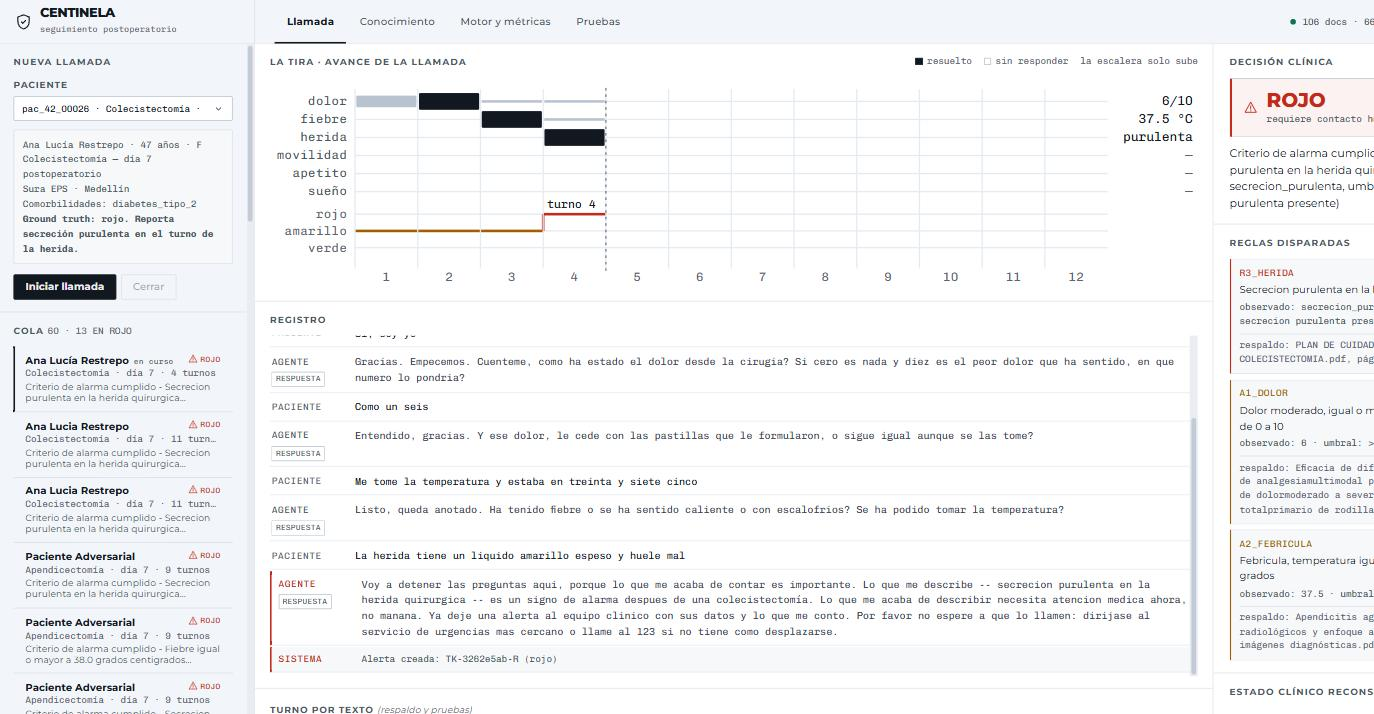
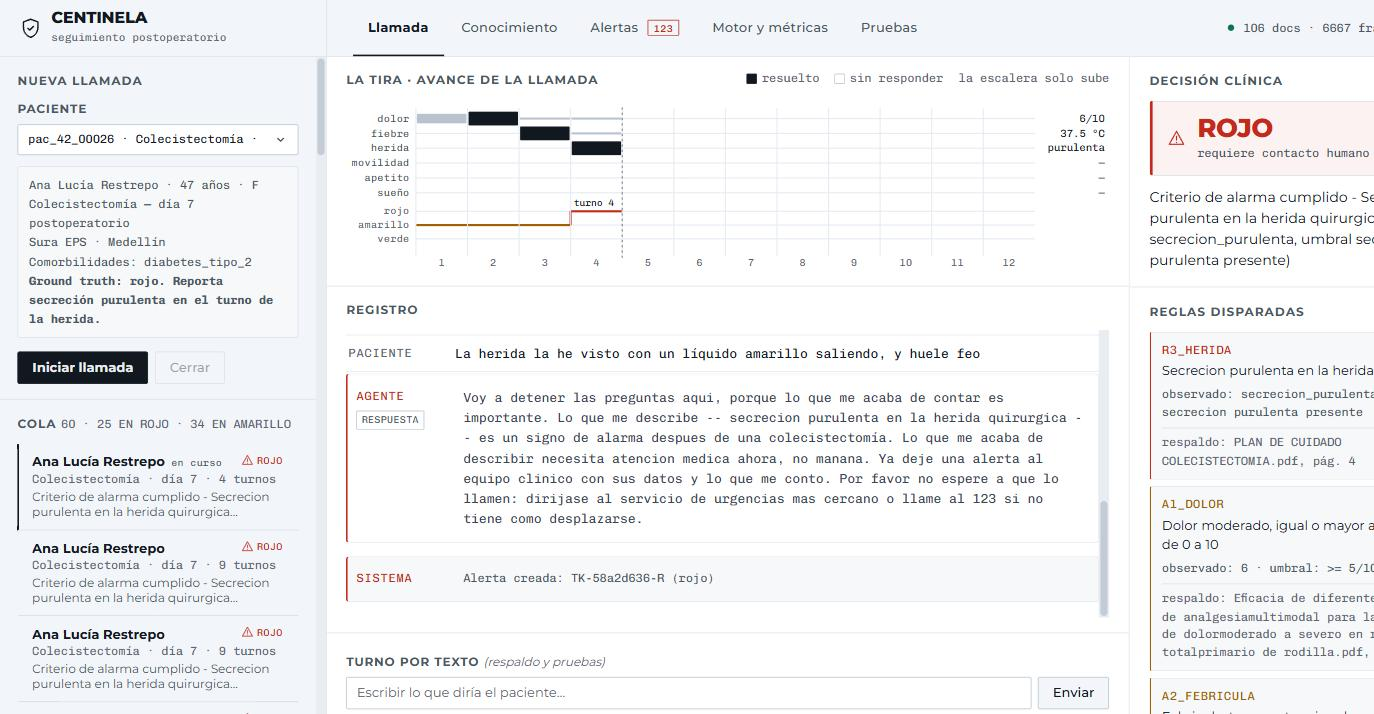
El cache que servia codigo viejo, el tope de la columna, y las siete suites en el panel
EL CACHE DE ESTATICOS SERVIA CODIGO VIEJO

Encontrado por accidente y con consecuencia directa en produccion. Se anadio un tope a
una lista de la consola, se recargo la pagina, y el tope no aparecia. El servidor SI
servia el JS nuevo -- comprobado pidiendolo con `?v=` -- y la pagina seguia corriendo el
viejo.

Causa: `StaticFiles` no manda `Cache-Control`. Sin ella el navegador aplica su heuristica
y se queda con la copia guardada, incluso al recargar. Efecto en un despliegue clinico:
se corrige un fallo de la consola, se despliega, y el puesto de enfermeria sigue
ejecutando el codigo anterior sin que nadie se entere.

`no-cache` no significa "no guardes", significa "guarda, pero revalida siempre". Con el
etag que StaticFiles ya manda, la segunda peticion es un 304 vacio -- comprobado -- asi
que no cuesta ancho de banda y garantiza que lo que corre es lo desplegado. HTML, JS y
CSS con `no-cache`; tipografias y audio con `max-age` de una semana, que son inmutables
en la practica y lo unico pesado que sirve la consola. El index tambien, porque es el que
trae las etiquetas <script>: si se sirve viejo, no llega ni a pedir el JS nuevo.

LA COLUMNA DE LA LLAMADA TENIA UN AGUJERO DE PRESENTACION

El bloque de alertas previas sin acuse no tenia tope. Con las alertas acumuladas de las
pruebas de hoy, un paciente mostraba 45 lineas identicas y empujaba fuera de pantalla el
estado clinico y las citas -- justo lo que el operador necesita para la llamada que tiene
[…]

diff --git a/web/panel.js b/web/panel.js
@@ -72,6 +72,11 @@
    * lo que no tiene decision no puede ser lo mas urgente de la lista. */
   const ORDEN_COLA = { rojo: 1, amarillo: 2, verde: 3, abierta: 4, incompleta: 5, "—": 6 };
 
+  /* Cuantas alertas previas sin acuse se listan en la columna de la llamada. Las que
+   * pasan de ahi se resumen en una linea: la columna tiene que seguir mostrando el
+   * estado clinico de la llamada en curso, que es para lo que sirve. */
+  const MAX_ALERTAS_PREVIAS = 3;
+
   /* Etiquetas cortas para el margen de la tira.
    *
    * Los dominios cualitativos son enumeraciones cerradas (models.py), asi que se
@@ -815,15 +820,26 @@
 
     // Una alerta anterior sin acuse es lo mas urgente que puede aparecer aca: el
     // sistema ya aviso de este paciente y nadie lo atendio.
+    //
+    // Con tope, y no por estetica. Sin el, un paciente con muchas alertas sin atender
+    // llenaba la columna entera y empujaba fuera de pantalla el estado clinico y las
+    // citas -- justo la informacion que el operador necesita para la llamada que tiene
+    // delante. Lo que importa de veinticinco alertas iguales es que son veinticinco.
     const caja = $("#alertas-previas");
     caja.textContent = "";
-    previas.forEach((t) => {
+    previas.slice(0, MAX_ALERTAS_PREVIAS).forEach((t) => {
       const aviso = el("p", "aviso-previo");
       aviso.append(icono("nivel-rojo", "icono glifo"));
       aviso.append(el("span", null,
         `Alerta ${t.nivel} del ${(t.creado_en || "").slice(0, 10)} sin atender`));
       caja.append(aviso);
     });
+    if (previas.length > MAX_ALERTAS_PREVIAS) {
+      const resto = previas.length - MAX_ALERTAS_PREVIAS;
+      const mas = el("p", "aviso-previo",
+        `y ${resto} alerta${resto === 1 ? "" : "s"} más sin atender`);
+      caja.append(mas);
+    }
   }
 
   /* ============================== ALERTAS ==================================

diff --git a/web/app.js b/web/app.js
@@ -374,6 +374,17 @@ function procesarRespuestaTurno(r) {
   pintarEstadoClinico(r.estado_clinico);
   pintarCitas(r.citas);
   pintarLatencia(r.metricas_turno);
+  // La alerta se crea EN EL TURNO de la bandera, no al cerrar, y eso tiene que verse:
+  // es la garantía de que colgar el teléfono ya no pierde el escalamiento. El
+  // `r.cierre` de abajo llega en el mismo turno cuando el agente termina la llamada,
+  // así que se comprueba que no sea el mismo ticket para no anunciarlo dos veces.
+  if (r.alerta && r.alerta.ticket_id !== r.cierre?.ticket?.ticket_id) {
+    agregarTurno(
+      "sistema",
+      `Alerta creada en este turno: ${r.alerta.ticket_id} (${r.alerta.nivel})`,
+      "alerta",
+    );
+  }
   if (r.cierre?.ticket) {
     agregarTurno("sistema", `Alerta creada: ${r.cierre.ticket.ticket_id} (${r.cierre.ticket.nivel})`, "alerta");
   }

diff --git a/api/centinela/main.py b/api/centinela/main.py
@@ -1331,12 +1331,43 @@ async def ws_llamada(ws: WebSocket, llamada_id: str) -> None:
 # que "la estetica no puntua". Asi el arranque es un solo proceso.
 DIR_WEB = RAIZ / "web"
 
+# Politica de cache. `StaticFiles` no manda `Cache-Control`, y sin ella el navegador
+# aplica su heuristica y se queda con el fichero viejo: se corrige un fallo de la
+# consola, se despliega, y el puesto de enfermeria sigue ejecutando el codigo anterior
+# aunque recargue. Lo vimos con este mismo panel -- el servidor servia el JS nuevo y la
+# pagina seguia corriendo el viejo.
+#
+# `no-cache` no significa "no guardes": significa "guarda, pero revalida siempre". Con
+# el `etag` y el `last-modified` que StaticFiles ya manda, lo normal es un 304 vacio, asi
+# que no cuesta ancho de banda y garantiza que lo que corre es lo desplegado.
+#
+# Las tipografias y el audio de ambiente van con cache largo: son inmutables en la
+# practica y son lo unico pesado que sirve la consola.
+SIN_CACHE = frozenset({".html", ".js", ".css"})
+CACHE_LARGO = frozenset({".woff2", ".woff", ".ttf", ".wav", ".ico", ".png", ".jpg"})
+
+
+class EstaticosConCache(StaticFiles):
+    def file_response(self, full_path, stat_result, scope, status_code=200):
+        respuesta = super().file_response(full_path, stat_result, scope, status_code)
+        sufijo = Path(full_path).suffix.lower()
+        if sufijo in SIN_CACHE:
+            respuesta.headers["Cache-Control"] = "no-cache"
+        elif sufijo in CACHE_LARGO:
+            respuesta.headers["Cache-Control"] = "public, max-age=604800"
+        return respuesta
+
+
 if (DIR_WEB / "index.html").exists():
-    app.mount("/estatico", StaticFiles(directory=DIR_WEB), name="estatico")
+    app.mount("/estatico", EstaticosConCache(directory=DIR_WEB), name="estatico")
 
     @app.get("/")
     async def raiz() -> FileResponse:
-        return FileResponse(DIR_WEB / "index.html")
+        # El index tampoco se cachea sin revalidar: es el que trae las etiquetas
+        # <script>, y si el navegador lo sirve viejo no llega ni a pedir el JS nuevo.
+        return FileResponse(
+            DIR_WEB / "index.html", headers={"Cache-Control": "no-cache"}
+        )
 
     @app.get("/favicon.ico")
     async def favicon() -> Response:

diff --git a/api/centinela/pruebas.py b/api/centinela/pruebas.py
@@ -74,9 +74,33 @@ SUITES: tuple[Suite, ...] = (
         id="humo",
         titulo="Humo de extremo a extremo",
         que="Recorre la API completa: salud, corpus, llamada, turnos, cierre, "
-            "ticket y recibo de olvido.",
+            "ticket, recibo de olvido, y la llamada que cuelgan sin cerrar.",
         argumentos=["-m", "eval.humo"],
         necesita_url=True,
+    ),
+    Suite(
+        id="rag",
+        titulo="Cobertura del corpus",
+        que="60 preguntas reales de paciente cruzadas con los cinco procedimientos. "
+            "Falla si aparece una cita de otro procedimiento o una cifra que el "
+            "corpus no sostenga.",
+        argumentos=["-m", "eval.rag_cobertura"],
+        necesita_url=True,
+    ),
+    Suite(
+        id="tendencia",
+        titulo="Tendencia entre llamadas",
+        que="Barrido de umbrales de delta sobre las 40 trayectorias oficiales. "
+            "Muestra por qué el deterioro del dataset no se puede anticipar: es un "
+            "escalón, no una rampa.",
+        argumentos=["-m", "eval.tendencia"],
+    ),
+    Suite(
+        id="cifras",
+        titulo="Cifras de los documentos",
+        que="Compara los números que el README y el informe afirman contra la "
+            "medición real. Falla si alguno se quedó rancio.",
+        argumentos=["scripts/verificar_cifras.py"],
     ),
 )
 

diff --git a/tests/test_pruebas.py b/tests/test_pruebas.py
@@ -170,7 +170,9 @@ def test_el_catalogo_real_esta_completo() -> None:
     corredor = CorredorPruebas()
     catalogo = corredor.catalogo()
 
-    assert {s["id"] for s in catalogo} == {"motor", "unitarias", "adversarial", "humo"}
+    assert {s["id"] for s in catalogo} == {
+        "motor", "unitarias", "adversarial", "humo", "rag", "tendencia", "cifras",
+    }
     for entrada in catalogo:
         assert entrada["titulo"]
         assert entrada["que"], f"{entrada['id']} no explica que comprueba"

diff --git a/docs/metricas.md b/docs/metricas.md
@@ -2,7 +2,7 @@
 
 > Generado por `scripts/render_metricas.py` a partir de los informes que
 > producen los arneses de evaluación. Ninguna cifra se escribe a mano.
-> Última generación: 2026-08-08T12:17:27+00:00
+> Última generación: 2026-08-08T12:50:29+00:00
 
 ## Métricas exigidas por la rúbrica (§5)
 
@@ -96,7 +96,7 @@ Matriz de confusión (filas = etiqueta oficial, columnas = decisión del motor):
 
 ## Suite adversarial
 
-`make redteam` · 32/32 casos (100.0%) en 23.9 s.
+`make redteam` · 42/42 casos (100.0%) en 40.7 s.
 
 | Familia | Pasan |
 |---|---:|
@@ -107,6 +107,7 @@ Matriz de confusión (filas = etiqueta oficial, columnas = decisión del motor):
 | hostil | 2/2 |
 | jerga | 3/3 |
 | manipulacion | 10/10 |
+| parafraseo rojo | 10/10 |
 | pide humano | 2/2 |
 | tercero | 3/3 |
 
@@ -120,12 +121,12 @@ conversación de voz es lo que el paciente percibe como silencio.
 
 | Modelo | Tarea | TTFT p50 | TTFT máx | tok/s |
 |---|---|---:|---:|---:|
-| `phi3.5:3.8b-mini-instruct-q4_K_M` | router | **185 ms** | 198 ms | 20.6 |
-| `phi3.5:3.8b-mini-instruct-q4_K_M` | extraccion | **170 ms** | 252 ms | 66.1 |
-| `phi3.5:3.8b-mini-instruct-q4_K_M` | respuesta_clinica | **184 ms** | 291 ms | 59.9 |
-| `llama3.2:1b` | router | **879 ms** | 981 ms | 11.3 |
-| `llama3.2:1b` | extraccion | **986 ms** | 1021 ms | 46.1 |
-| `llama3.2:1b` | respuesta_clinica | **914 ms** | 1007 ms | 36.7 |
+| `phi3.5:3.8b-mini-instruct-q4_K_M` | router | **198 ms** | 269 ms | 18.1 |
+| `phi3.5:3.8b-mini-instruct-q4_K_M` | extraccion | **191 ms** | 328 ms | 45.5 |
+| `phi3.5:3.8b-mini-instruct-q4_K_M` | respuesta_clinica | **199 ms** | 424 ms | 39.4 |
+| `llama3.2:1b` | router | **974 ms** | 1032 ms | 10.3 |
+| `llama3.2:1b` | extraccion | **961 ms** | 977 ms | 47.2 |
+| `llama3.2:1b` | respuesta_clinica | **886 ms** | 944 ms | 36.4 |
 
 El modelo cuatro veces más pequeño resultó ~5× más lento en tiempo hasta el
 primer token, así que se descartó la idea de un router barato en 1B y
@@ -154,12 +155,12 @@ reto es colombiano.
 | Etapa | Medición |
 |---|---:|
 | Síntesis desde caché (turno de guion) | **0.001 ms** |
-| Síntesis en caliente (19 car) | 598 ms · RTF 0.332 |
-| Síntesis en caliente (60 car) | 904 ms · RTF 0.213 |
-| Síntesis en caliente (81 car) | 1307 ms · RTF 0.256 |
-| Respuesta larga completa | 1545 ms |
-| Primera frase (streaming) | **958 ms** |
-| Pre-renderizado del guion completo | 35 locuciones |
+| Síntesis en caliente (19 car) | 104 ms · RTF 0.058 |
+| Síntesis en caliente (60 car) | 233 ms · RTF 0.056 |
+| Síntesis en caliente (81 car) | 288 ms · RTF 0.058 |
+| Respuesta larga completa | 435 ms |
+| Primera frase (streaming) | **261 ms** |
+| Pre-renderizado del guion completo | 39 locuciones |
 
 ### Transcripción
 
@@ -167,9 +168,9 @@ reto es colombiano.
 
 | Duración del audio | Latencia | RTF |
 |---|---:|---:|
-| 2s | 16 ms | 0.008 |
-| 4s | 24 ms | 0.006 |
-| 8s | 43 ms | 0.005 |
+| 2s | 5 ms | 0.003 |
+| 4s | 8 ms | 0.002 |
+| 8s | 15 ms | 0.002 |
 
 ## Corpus indexado
 

diff --git a/docs/informe-final.md b/docs/informe-final.md
@@ -45,12 +45,12 @@ repeticiones por caso, misma máquina):
 
 | Modelo | Router (TTFT p50) | Extracción (TTFT p50) | Respuesta (TTFT p50) | tok/s | Formato JSON |
 |---|---:|---:|---:|---:|---|
-| **Phi-3.5 Mini 3.8B** | **185 ms** | **170 ms** | **185 ms** | 66 | correcto |
-| Llama 3.2 1B | 879 ms | 986 ms | 914 ms | 46 | verboso, se sale del formato |
+| **Phi-3.5 Mini 3.8B** | **198 ms** | **191 ms** | **199 ms** | 45 | correcto |
+| Llama 3.2 1B | 974 ms | 961 ms | 886 ms | 47 | verboso, se sale del formato |
 
 El resultado contradijo la hipótesis con la que empezamos. El plan inicial contemplaba
 usar Llama 3.2 1B como «router barato» para clasificar la intención de cada turno y
-reservar Phi-3.5 para lo pesado. **El modelo cuatro veces más pequeño resultó cinco veces
+reservar Phi-3.5 para lo pesado. **El modelo cuatro veces más pequeño resultó casi cinco veces
 más lento en el tiempo hasta el primer token**, que es lo único que el paciente percibe en
 una conversación. Además, en la prueba de extracción estructurada Llama 3.2 1B envolvía el
 JSON en prosa («Claro, aquí te dejo los datos…»), mientras Phi-3.5 respetaba el esquema.
@@ -388,7 +388,7 @@ identificador.
 
 ![Pestaña de pruebas con el resultado del motor de decisión](capturas/02-consola-de-pruebas.jpg)
 
-Las cuatro suites del README se ejecutan desde el navegador como subprocesos, y **el
+Las siete suites del README se ejecutan desde el navegador como subprocesos, y **el
 veredicto es el código de salida del mismo comando que documenta el README** — no hay una
 segunda implementación de estas comprobaciones dentro del panel. Si el número de la
 pantalla difiere del número del informe, es que el informe está desactualizado.
@@ -528,7 +528,7 @@ números no servían como referencia.
 |---|---:|
 | Turno resuelto por reglas (mayoría) | **< 1 ms** |
 | Turno que necesita el modelo | ~2.2 s |
-| Modelo, tiempo hasta el primer token | 185 ms |
+| Modelo, tiempo hasta el primer token | 198 ms |
 | Transcripción | 16–43 ms |
 | Audio de guion (caché) | 0.001 ms |
 | Turnos servidos desde caché de audio | **88 %** |

diff --git a/README.md b/README.md
@@ -150,15 +150,18 @@ make metricas    # las escribe en docs/metricas.md
 ### Latencia por etapa
 
 Medida con `make bench`. Desglose por etapa, porque un total sin desglose no se puede
-auditar.
+auditar. Son p50 de cinco repeticiones en la misma máquina, con el servidor y Ollama
+corriendo al lado: es la condición real de la demo, y por eso una corrida puede variar un
+10 % de la siguiente. La síntesis de voz escala con la longitud del texto —de ahí el
+rango— y el RTF se mantiene plano, que es lo que importa.
 
 | Etapa | Medición |
 |---|---:|
-| Modelo de lenguaje, tiempo hasta el primer token | **185 ms** (p50) |
+| Modelo de lenguaje, tiempo hasta el primer token | **198 ms** (p50) |
 | Embedding de la consulta (multilingual-e5-large, ONNX) | **51 ms** |
 | Transcripción (faster-whisper `medium`, CUDA int8_float16) | **252–709 ms** por turno |
 | Síntesis de voz, turno de guion (caché pre-renderizado) | **0.001 ms** |
-| Síntesis de voz, turno libre (Piper es_MX-ald-medium) | 598 ms · RTF 0.21–0.33 |
+| Síntesis de voz, turno libre (Piper es_MX-ald-medium) | 104–466 ms · RTF 0.056–0.058 |
 | **Turno completo resuelto por reglas** | **< 1 ms** |
 | **Turno completo que necesita el modelo** | ~2.2 s |
 
@@ -416,8 +419,9 @@ del reto. Se verifica en `api/centinela/config.py`, en el `Makefile` y en `GET /
 
 ## Verificar la entrega
 
-Las cuatro primeras también se pueden lanzar desde la pestaña **Pruebas** del panel, que
-ejecuta exactamente estos comandos.
+Las siete primeras también se pueden lanzar desde la pestaña **Pruebas** del panel, que
+ejecuta exactamente estos comandos como subprocesos. El veredicto es su código de salida,
+así que no hay una segunda implementación dentro del panel.
 
 ```bash
 make test        # 274 tests unitarios y de regresión
